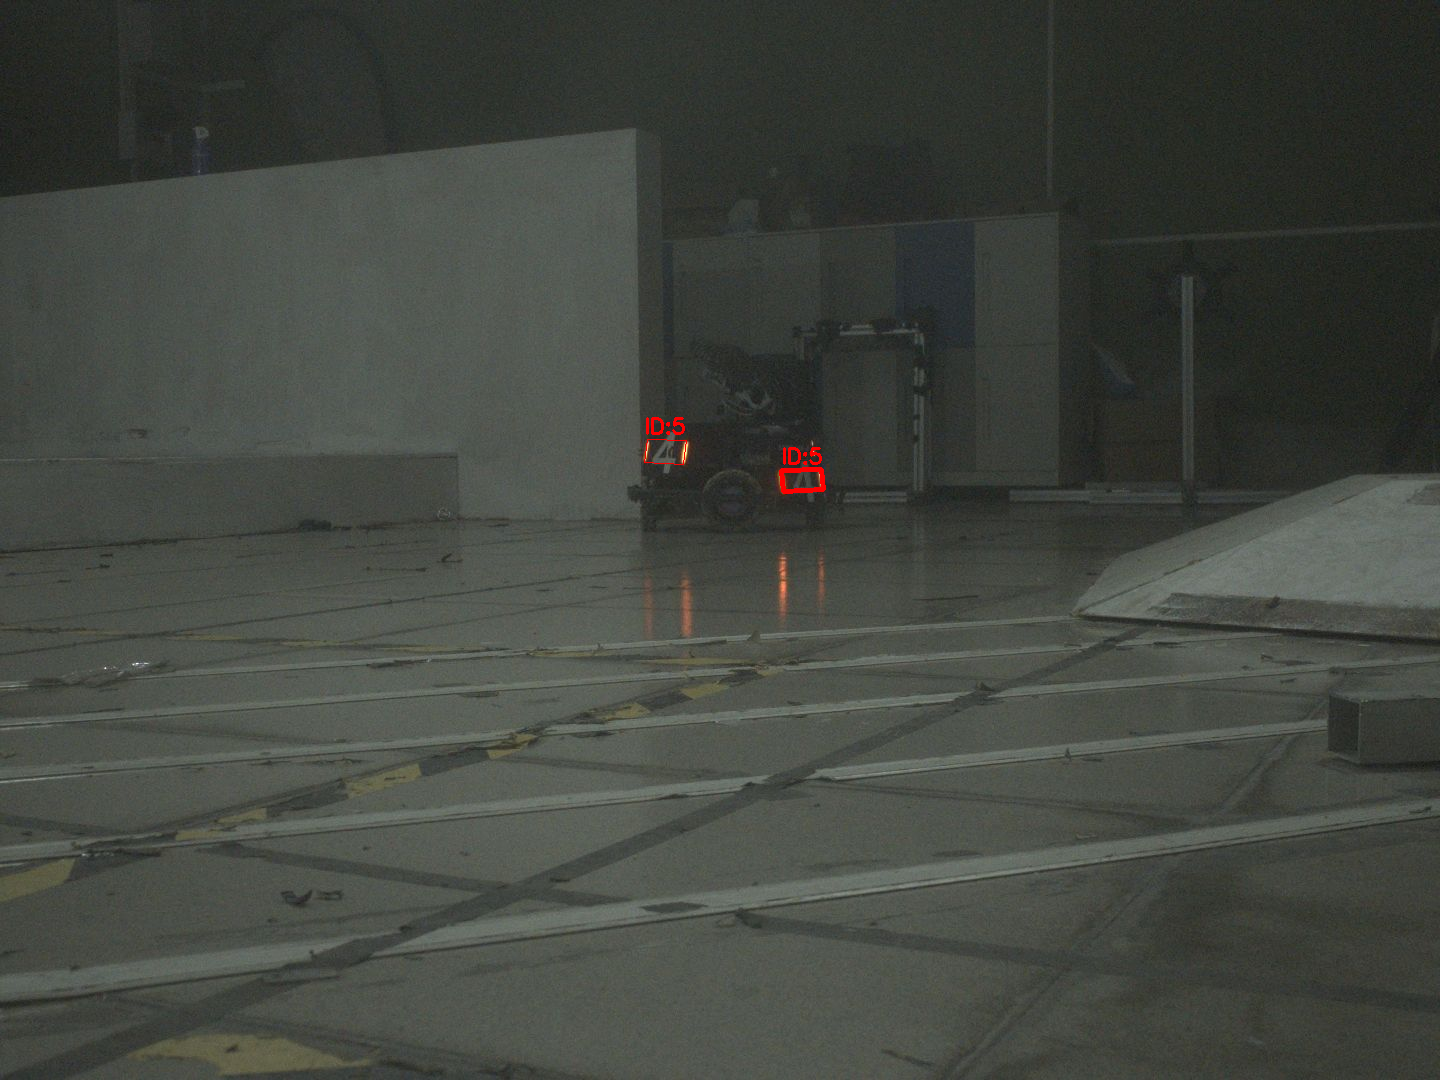
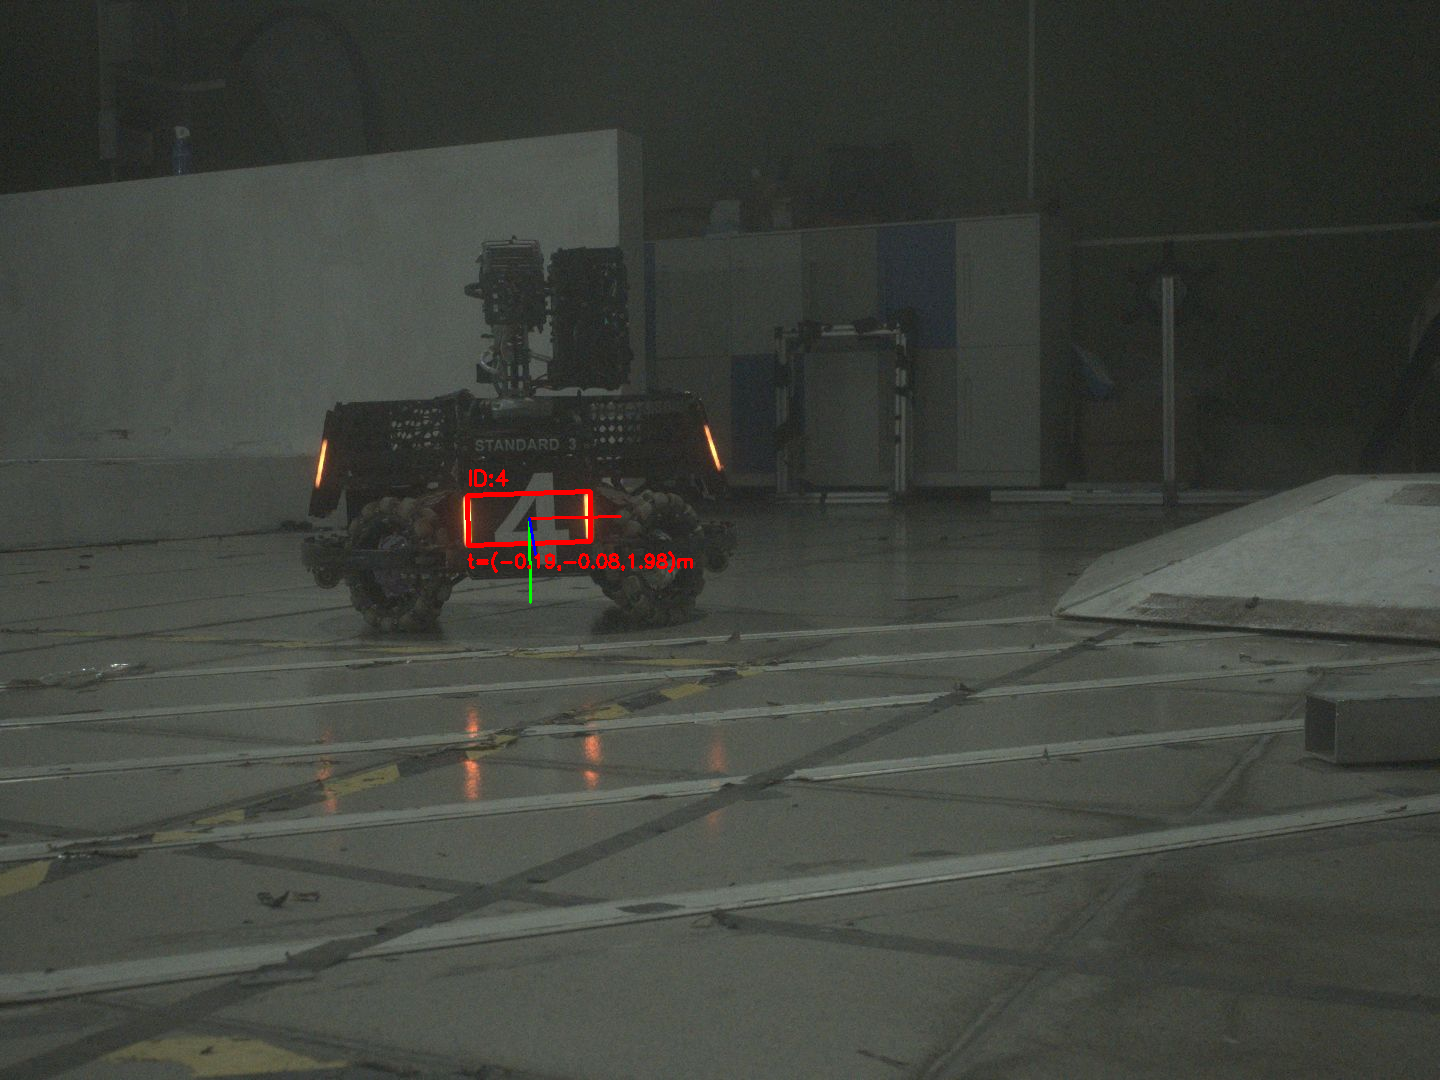
fix: NN编号解码偏移(+1->索引)，ID:4与画面一致

diff --git a/include/final_text/detector_interface.hpp b/include/final_text/detector_interface.hpp
@@ -153,7 +153,7 @@ class OnnxDetector : public IDetector {
             a.corners[2] = p[2];   // BR
             a.corners[3] = p[3];   // BL
             a.color = color;
-            a.number = best_n + 1;
+            a.number = (best_n == 5) ? 0 : best_n;  // 类别索引即编号；5 不使用
             a.score = cs;
             cand.push_back(a);
 

diff --git a/docs/NN_EVIDENCE.md b/docs/NN_EVIDENCE.md
@@ -80,7 +80,7 @@ roslaunch final_text test_vision.launch mode:=tradition
 | C++ 后端（ORT/OpenVINO） | ✅ | ORT 1.31.1 |
 | letterbox/补边/RGB/归一化 | ✅ | `detector_interface.hpp` |
 | 保存 scale/pad 并还原 | ✅ | 每帧局部变量 |
-| 解码颜色/编号/四角点 | ✅ | 21 行解码 |
+| 解码颜色/编号/四角点 | ✅ | 21 行解码，索引即编号 |
 | 角点还原原图、稳定顺序 | ✅ | `orderCorners()` 几何重排 TL/TR/BR/BL |
 | 置信度筛选 + 去重 | ✅ | 0.5/0.5/0.45 |
 | 接入 PnP/跟踪、发布 | ✅ | `/ft/detection_nn`、tracker |
@@ -91,7 +91,7 @@ roslaunch final_text test_vision.launch mode:=tradition
 | 平均单帧耗时 | ✅ | 64–81 ms |
 
 ## 9. 已知问题
-1. 编号仍有 5：已加“连续 3 帧不一致才切换”的平滑，但模型原始输出就是 5；
+1. 编号偏移已修正：原代码 `best_n+1` 导致 4→5；改为索引即编号后，画面“4”输出 4；
 2. 传统 vs NN 对比图中，传统该帧漏检、NN 多检 1 个；
 3. 四角点顺序未做几何校验，倾斜大时可能错序；
 4. RViz 视角只看到 TF 轴，场景为空（未加 camera 显示）；

diff --git a/docs/nn_tutorial.md b/docs/nn_tutorial.md
@@ -100,7 +100,7 @@ y_orig = (y_net - pad_y) / scale;
 ## 4. 解码与稳定顺序
 
 1. 颜色：行 0–2 取最大，`< color_thres` 丢弃；
-2. 编号：行 4–12 取最大，`< number_thres` 丢弃；
+2. 编号：行 4–12 取最大，**输出索引即编号**，`< number_thres` 丢弃；
 3. 角点：8 个数两两成点，还原到原图；
 4. 顺序统一为 **TL → TR → BR → BL**：
    - 当前按模型输出顺序映射 `p0→TL, p3→TR, p2→BR, p1→BL`；
